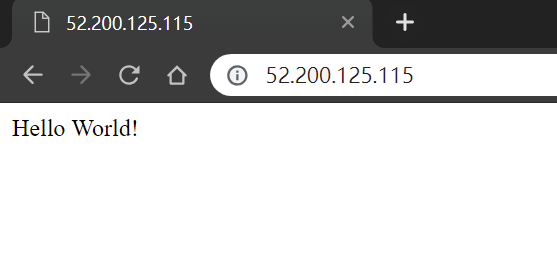
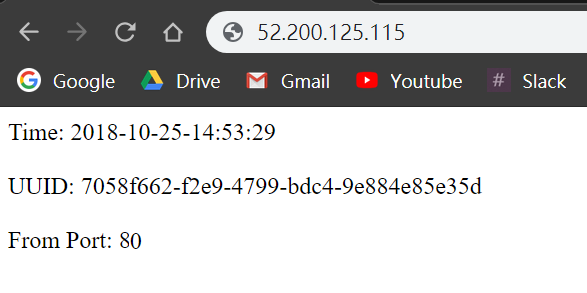
Modify demo screenshots and content

diff --git a/202-Get-Started-with-Amazon-ECS-Service/README.md b/202-Get-Started-with-Amazon-ECS-Service/README.md
@@ -1,14 +1,14 @@
 # Get Started with Amazon ECS Service
 In this tutorial, we will create a container which serves as a web server by using Amazon Elastic Container Service ([Amazon ECS](https://aws.amazon.com/ecs)). Before starting, make sure there exists executable image stored in Amazon Elastic Container Registry ([Amazon ECR](https://aws.amazon.com/ecr)). 
 
-## Prerequisites 
+## Prerequisites
 * Make sure the region is **US East (N. Virginia)**, which its short name is **us-east-1**.
 
 * Make sure there exists **executable image** stored in Amazon ECR. For more details, please refer to [Get Started with Docker & Amazon ECR](../README.md).
 
 
 ## Determine Using Amazon Fargates or EC2 instance
-In Amazon ECS, we can easily launch containers without management of instances by using Amazon Fargate. We can also launch containers on Amazon EC2 instances and manage instances ourself.  
+In Amazon ECS, we can easily launch containers without management of instances by using Amazon Fargate. We can also launch containers on Amazon EC2 instances and manage instances ourself.
 
 The following content is divided into two parts. For using Amazon Fargate, please step to **Use Amazon Fargate** part. For using Amazon EC2, please step to **Use Amazon EC2 Instance** part.
 
@@ -73,7 +73,7 @@ The following content is divided into two parts. For using Amazon Fargate, pleas
 * Click **Create** and wait for the creation of Task Definition.
 
 ### Create Service on Amazon ECS
-After creating task definition, we can start a task standalone or start several tasks simultaneously by creating a service. In this tutorial, we will create a service. 
+After creating task definition, we can start a task standalone or start several tasks simultaneously by creating a service. In this tutorial, we will create a service.
 
 * Back to [Amazon ECS console](https://console.aws.amazon.com/ecs/home), click **Clusters** on left panel.
 
@@ -113,7 +113,7 @@ After creating task definition, we can start a task standalone or start several 
 
   ![IP.png](../images/IP.png)
 
-* Open a new browser tab, paste the IP address and press Enter. In the browser, we should be able to see an **_Hello World!_** message.
+* Open a new browser tab, paste the IP address and press Enter. In the browser, we should be able to see the container's UUID and using port.
 
   ![browser.png](../images/browser.png)
 	
@@ -234,7 +234,7 @@ After creating task definition, we can start a task standalone or start several 
 
   ![link.png](../images/link.png)
 
-* Open a new browser tab, paste the external link and press Enter. In the browser, we should be able to see an **_Hello World!_** message.
+* Open a new browser tab, paste the external link and press Enter. In the browser, we should be able to see the container's UUID and using port.
 
   ![browser2.png](../images/browser2.png)
 

diff --git a/203-Auto-Scaling-on-Amazon-ECS/README.md b/203-Auto-Scaling-on-Amazon-ECS/README.md
@@ -146,17 +146,21 @@ In this section, we will set up a service which can adjust the number of tasks i
 
 ![DNS.png](../images/DNS.png)
 
-* Open a new tab in your browser, paste **the DNS name** and press Enter. You should be able to see the **hello world** message.
+* Open a new tab in your browser, paste **the DNS name** (if you are launching EC2 container type, add **`:81`** at the end of DNS name) and **press Enter**. You should be able to see the container's UUID and using port.
 
-![browser3.png](../images/browser3.png) 
+![browser3.png](../images/browser3.png)
 
-* **Refresh** the page **at least 4 times**, and wait for a minute.
+* **Refresh** the page **at least 4 times**, and wait for a while. (This might take 3~10 minutes.)
 
 * Back to **ECS console -> Clusters -> FargateCluster (EC2Cluster) -> AutoScalingFargateService (AutoScalingEC2Service)**.
 
 * Keep refreshing the page and you should be able to see that there are two tasks running now (or one is provisioning and one is running).
 
 ![provisioning.png](../images/provisioning.png)
+
+* Meanwhile, back to the page which displays container's UUID and refresh the page. You should be able to see a new container UUID since the second container has been launched. 
+
+![browser4.png](../images/browser4.png)
 
 
 <!-- 

diff --git a/201-Get-Started-with-Docker-and-Amazon-ECR/README.md b/201-Get-Started-with-Docker-and-Amazon-ECR/README.md
@@ -64,7 +64,7 @@ In this lab, we use AWS Cloud9 which is a cloud IDE intergrating programming lan
 	  vi Dockerfile
     
 
-* Press **`i`** key to enter insert mode and add the following script. The script will be executed while building Docker image and Apache web server will be set up. 
+* Press **`i`** key to enter insert mode and add the following script. The script will be executed while building Docker image and Apache web server will be set up. The home page we use is programmed in PHP. It will print out the container's UUID (Universal Unique Identity) once being visited.
 
       FROM ubuntu:12.04
 
@@ -119,7 +119,7 @@ In this lab, we use AWS Cloud9 which is a cloud IDE intergrating programming lan
 * Open another terminal window by pressing **`alt + t`** key or clicking the **`+`** button and **`New Terminal`**.
   ![newTerminal.png](../images/newTerminal.png)
 
-* Use **_Curl_** to fetch the index page from the **IP address** displayed in previous one step. We should be able to see an **_Hello World!_** message displayed on the screen.
+* Use **_Curl_** to fetch the index page from the **IP address** displayed in previous one step. We should be able to see the container's UUID and using port are displayed on the screen.
 
       curl [Server IP]
 
